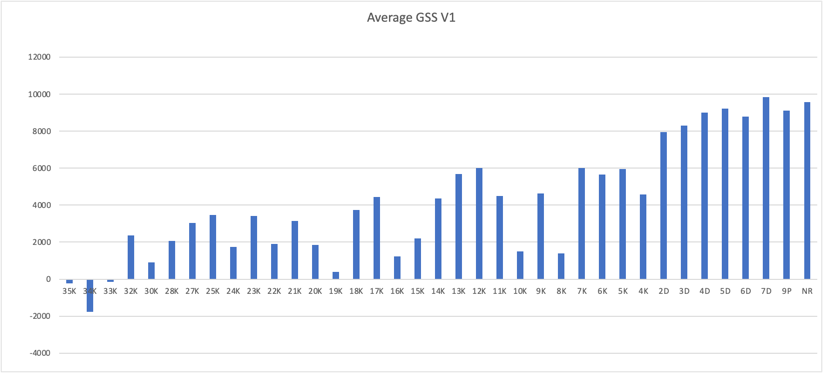
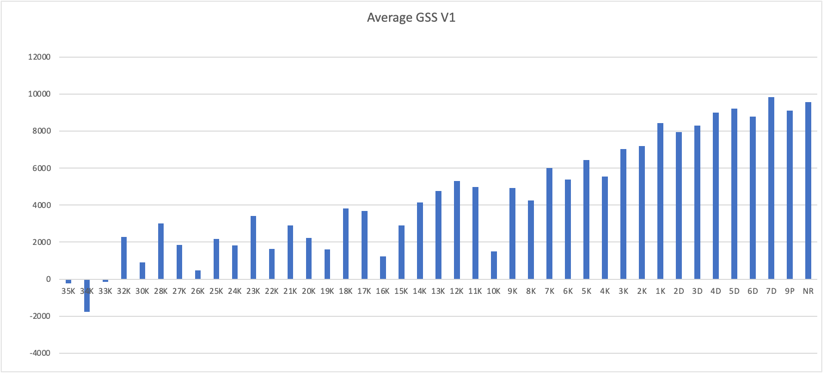
Update analyse statistic

Changed region(s): [[0.5164, 0.2654, 1.0, 0.7962], [0.0608, 0.5308, 0.5164, 0.8552], [0.0304, 0.2359, 0.0608, 0.2654]]

diff --git a/README.md b/README.md
@@ -42,32 +42,36 @@ game score = avg(game winrate score, game score lead score) * 10000
 | 35K  | -222.76  | -685.6   | 240.07   | 462.84  | 2     |
 | 34K  | -1768.72 | -1768.72 | -1768.72 | 0       | 1     |
 | 33K  | -147.44  | -147.44  | -147.44  | 0       | 1     |
-| 32K  | 2375.61  | 103.75   | 4647.48  | 2271.86 | 2     |
+| 32K  | 2289.61  | -389.43  | 4796.66  | 2439.26 | 4     |
 | 30K  | 910.84   | 910.84   | 910.84   | 0       | 1     |
-| 28K  | 2068.39  | 922.71   | 3214.08  | 1145.69 | 2     |
-| 27K  | 3028.85  | 3028.85  | 3028.85  | 0       | 1     |
-| 25K  | 3477.28  | 3477.28  | 3477.28  | 0       | 1     |
-| 24K  | 1755.19  | -1245.62 | 6545.68  | 2896.55 | 4     |
+| 28K  | 3018.93  | 922.71   | 5403.8   | 1608.87 | 4     |
+| 27K  | 1851.07  | 723.67   | 3028.85  | 941.76  | 3     |
+| 26K  | 485.08   | 485.08   | 485.08   | 0       | 1     |
+| 25K  | 2178.92  | 880.55   | 3477.28  | 1298.37 | 2     |
+| 24K  | 1817.76  | -1245.62 | 6545.68  | 2593.77 | 5     |
 | 23K  | 3415.34  | 1346.74  | 5748.25  | 1806.6  | 3     |
-| 22K  | 1916.67  | 598.58   | 3159.14  | 991.87  | 4     |
-| 21K  | 3137.41  | 964.82   | 6385.57  | 1699.75 | 9     |
-| 20K  | 1853.83  | -2337.32 | 4606.73  | 2160.32 | 9     |
-| 19K  | 383.24   | -519.4   | 1285.88  | 902.64  | 2     |
-| 18K  | 3749.05  | 1842.72  | 5445.36  | 1295.78 | 4     |
-| 17K  | 4439.21  | 2080.63  | 5814.93  | 1675.46 | 3     |
+| 22K  | 1623.86  | 452.63   | 3159.14  | 1063.01 | 5     |
+| 21K  | 2912.54  | 888.68   | 6385.57  | 1747.96 | 10    |
+| 20K  | 2233.39  | -2337.32 | 5649.41  | 2344.54 | 10    |
+| 19K  | 1619.02  | -519.4   | 3957.81  | 1594.63 | 4     |
+| 18K  | 3830.9   | 1842.72  | 5775.39  | 1158.22 | 11    |
+| 17K  | 3686.36  | 138.62   | 6087.89  | 2080.74 | 7     |
 | 16K  | 1231.58  | 842.87   | 1620.29  | 388.71  | 2     |
-| 15K  | 2203.36  | 2163.86  | 2242.87  | 39.51   | 2     |
-| 14K  | 4366.94  | 4366.94  | 4366.94  | 0       | 1     |
-| 13K  | 5677.79  | 5677.79  | 5677.79  | 0       | 1     |
-| 12K  | 6002.91  | 3713.28  | 8292.55  | 2289.63 | 2     |
-| 11K  | 4499.09  | 4499.09  | 4499.09  | 0       | 1     |
+| 15K  | 2889.84  | 2163.86  | 4262.8   | 971.36  | 3     |
+| 14K  | 4155.51  | 2377.76  | 6173.55  | 1355.16 | 8     |
+| 13K  | 4765.49  | 3853.19  | 5677.79  | 912.3   | 2     |
+| 12K  | 5302.7   | 3471.15  | 8292.55  | 1618.29 | 6     |
+| 11K  | 4967.74  | 4499.09  | 5650.55  | 493.87  | 3     |
 | 10K  | 1489.56  | -2872.43 | 4043.1   | 3099.36 | 3     |
-| 9K   | 4623.68  | 3969.89  | 5239.06  | 449.95  | 4     |
-| 8K   | 1401.83  | 618.76   | 2184.9   | 783.07  | 2     |
+| 9K   | 4914.95  | 3969.89  | 6080.05  | 708.04  | 5     |
+| 8K   | 4242.2   | 618.76   | 6929.53  | 1978.05 | 8     |
 | 7K   | 6012.87  | 5335.27  | 6690.46  | 677.6   | 2     |
-| 6K   | 5650.53  | 3968.77  | 6660.28  | 1197.15 | 3     |
-| 5K   | 5942.3   | 3518.18  | 7468.91  | 1487.98 | 4     |
-| 4K   | 4578.33  | 3369.3   | 5153.64  | 708.05  | 4     |
+| 6K   | 5377.91  | 3968.77  | 6660.28  | 1129.03 | 5     |
+| 5K   | 6431.94  | 3518.18  | 7468.91  | 1398.73 | 6     |
+| 4K   | 5541.65  | 3369.3   | 7478.32  | 1223.56 | 10    |
+| 3K   | 7023.35  | 7023.35  | 7023.35  | 0       | 1     |
+| 2K   | 7183.73  | 7183.73  | 7183.73  | 0       | 1     |
+| 1K   | 8422.96  | 8422.96  | 8422.96  | 0       | 1     |
 | 2D   | 7947.87  | 7408.05  | 8580.42  | 443.46  | 5     |
 | 3D   | 8294.62  | 6963.1   | 9072.75  | 945.99  | 3     |
 | 4D   | 9004.41  | 8300.06  | 9704.07  | 573.19  | 3     |
